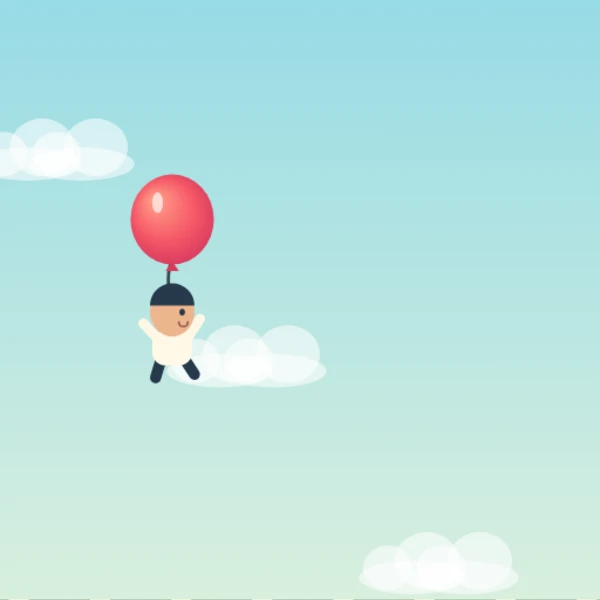
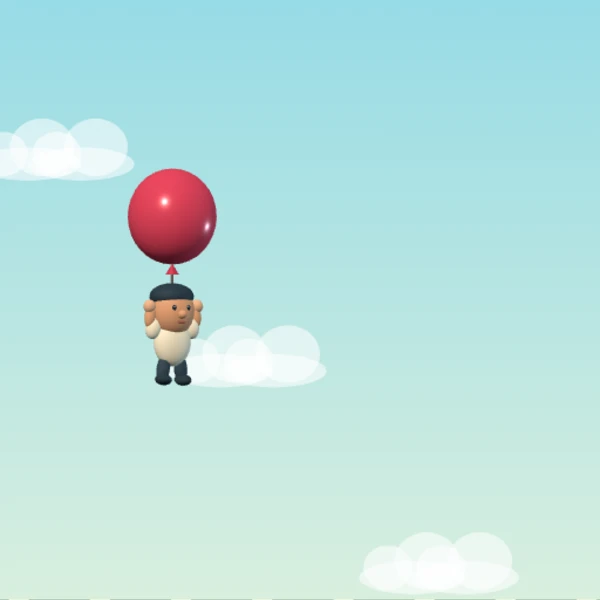
声の風船の反応を鋭くして人物と障害物を立体化

Changed region(s): [[0.21, 0.27, 0.36, 0.66]]

diff --git a/games/_koe-balloon/scene3d.js b/games/_koe-balloon/scene3d.js
@@ -1,0 +1,102 @@
+/* 人物・風船・柱を立体で描き、録画にも使う主画面へ合成する。
+   模型はすべて基本図形から自作。three.js は隣の既存配布物（MIT）を使う。 */
+(function(global){
+  'use strict';
+  function BalloonScene(){
+    var T=global.THREE,self=this;
+    this.renderer=new T.WebGLRenderer({alpha:true,antialias:true,preserveDrawingBuffer:true});
+    this.renderer.setClearColor(0,0);
+    this.renderer.outputColorSpace=T.SRGBColorSpace;
+    this.scene=new T.Scene();
+    this.camera=new T.OrthographicCamera(0,540,0,-960,1,3000);
+    this.camera.position.set(0,0,1000);
+    this.scene.add(new T.HemisphereLight(0xf3fcff,0x677579,1.5));
+    var sun=new T.DirectionalLight(0xfff0da,2.3);sun.position.set(-300,500,700);this.scene.add(sun);
+    var rim=new T.DirectionalLight(0xc1eaff,.8);rim.position.set(400,-100,-150);this.scene.add(rim);
+    this.ball=new T.SphereGeometry(1,24,16);
+    this.box=new T.BoxGeometry(1,1,1);
+    this.tube=new T.CylinderGeometry(1,1,1,12);
+    this.materials={};
+    this.mat=function(color,gloss){
+      var key=color+'-'+!!gloss;
+      return self.materials[key]||(self.materials[key]=new T.MeshStandardMaterial({color:color,roughness:gloss?.23:.62,metalness:gloss?.12:0}));
+    };
+    this.part=function(parent,geometry,color,x,y,z,sx,sy,sz,gloss){
+      var m=new T.Mesh(geometry,self.mat(color,gloss));
+      m.position.set(x,y,z);m.scale.set(sx,sy,sz);parent.add(m);return m;
+    };
+    this.person=new T.Group();this.scene.add(this.person);
+    var p=this.person;
+    this.part(p,this.ball,0xfff3d9,0,-8,0,18,22,12);
+    this.part(p,this.ball,0xe7a67d,0,20,1,20,23,18);
+    this.part(p,this.ball,0x253b4b,0,33,-1,20.5,12,18.5);
+    this.part(p,this.ball,0xe7a67d,0,17,19,4,4,5);
+    [-1,1].forEach(function(side){
+      self.part(p,self.ball,0xf0b792,side*19,20,0,4,6,4);
+      self.part(p,self.ball,0x162d3d,side*7,23,17,2,2.5,2);
+      self.part(p,self.ball,0xffffff,side*7-.5,24,18.5,.65,.7,.6);
+    });
+    this.part(p,this.ball,0xa86156,0,10,18,4,1.4,1);
+    this.arms=[];this.legs=[];
+    [-1,1].forEach(function(side){
+      var arm=new T.Group();arm.position.set(side*15,1,0);p.add(arm);
+      self.part(arm,self.ball,0xfff3d9,side*5,3,0,7,10,7);
+      self.part(arm,self.ball,0xe7a67d,side*10,13,1,5,10,5);
+      self.part(arm,self.ball,0xf0b792,side*12,22,2,5.5,6,5.5);
+      self.arms.push(arm);
+      var leg=new T.Group();leg.position.set(side*8,-24,0);p.add(leg);
+      self.part(leg,self.ball,0x314858,0,-8,0,6,13,6);
+      self.part(leg,self.ball,0x243846,0,-18,3,7,5,10);
+      self.legs.push(leg);
+    });
+    this.balloon=this.part(this.scene,this.ball,0xf04b68,155,-400,0,40,44,40,true);
+    this.knot=this.part(this.scene,new T.ConeGeometry(1,1,12),0xd83d59,155,-360,0,6,10,6,true);
+    this.rope=this.part(this.scene,this.tube,0x6b6060,155,-335,0,1.2,40,1.2);
+    this.gateModels=[];
+  }
+  BalloonScene.prototype.makeGate=function(){
+    var T=global.THREE,self=this,root=new T.Group();this.scene.add(root);
+    // 回転後の見える横幅を58にそろえ、当たり判定との横ずれを防ぐ。
+    var angle=-.42,extent=43*Math.cos(angle)+44*Math.abs(Math.sin(angle));
+    root.scale.x=58/extent;root.rotation.y=0;
+    function column(){
+      var g=new T.Group();g.rotation.y=angle;root.add(g);
+      var body=self.part(g,self.box,0x456873,0,0,0,43,1,44);
+      var cap=self.part(g,self.box,0xffc563,0,0,0,43,14,44,true);
+      var inset=self.part(g,self.box,0x658690,-11,0,22.2,5,1,.5);
+      return {root:g,body:body,cap:cap,inset:inset};
+    }
+    return {root:root,top:column(),bottom:column()};
+  };
+  BalloonScene.prototype.render=function(ctx,canvas,s){
+    var w=Math.min(canvas.width,810),h=Math.round(w*s.H/s.W);
+    if(this.renderer.domElement.width!==w||this.renderer.domElement.height!==h)this.renderer.setSize(w,h,false);
+    this.camera.right=s.W;this.camera.bottom=-s.H;this.camera.updateProjectionMatrix();
+    this.person.position.set(155,-s.y,0);
+    this.person.rotation.set(0,.5,Math.max(-.16,Math.min(.16,-s.vy/700)));
+    for(var i=0;i<2;i++){
+      this.legs[i].rotation.x=Math.sin(s.time*4+i*2)*.16;
+      this.legs[i].rotation.z=(i?1:-1)*(.15+Math.abs(s.vy)*.0008);
+      this.arms[i].rotation.z=(i?1:-1)*(.12+Math.sin(s.time*3)*.035);
+    }
+    var by=s.y-65-s.radius;
+    this.balloon.position.set(155,-by,0);this.balloon.scale.set(s.radius,s.radius*1.08,s.radius);
+    this.knot.position.set(155,-by-s.radius*1.08-4,0);
+    var ropeTop=-by-s.radius*1.08-8,ropeBottom=-s.y+40;
+    this.rope.position.set(155,(ropeTop+ropeBottom)/2,0);this.rope.scale.y=Math.max(1,ropeTop-ropeBottom);
+    while(this.gateModels.length<s.gates.length)this.gateModels.push(this.makeGate());
+    this.gateModels.forEach(function(m,i){
+      var g=s.gates[i];m.root.visible=!!g;if(!g)return;
+      m.root.position.x=g.x+29;
+      m.top.body.position.y=-(g.top-30)/2;m.top.body.scale.y=g.top+30;
+      m.top.cap.position.y=-g.top+7;
+      m.top.inset.position.y=-(g.top-30)/2;m.top.inset.scale.y=Math.max(1,g.top+2);
+      m.bottom.body.position.y=-(g.bottom+s.H+30)/2;m.bottom.body.scale.y=s.H+30-g.bottom;
+      m.bottom.cap.position.y=-g.bottom-7;
+      m.bottom.inset.position.y=-(g.bottom+s.H+44)/2;m.bottom.inset.scale.y=Math.max(1,s.H+16-g.bottom);
+    });
+    this.renderer.render(this.scene,this.camera);
+    ctx.drawImage(this.renderer.domElement,0,0,s.W,s.H);
+  };
+  global.BalloonScene=BalloonScene;
+})(window);

diff --git a/games/_koe-balloon/index.html b/games/_koe-balloon/index.html
@@ -26,6 +26,8 @@
   <button id="retry-button" type="button" aria-label="もう一度" hidden></button>
   <button id="share-button" type="button" aria-label="Xでシェア" hidden></button>
 </div></div>
+<script src="../random-bowling/vendor/three.min.js"></script>
+<script src="scene3d.js"></script>
 <script src="../start.js"></script>
 <script src="../view.js"></script>
 <script src="../audio.js"></script>
@@ -56,6 +58,11 @@
      タテ画面。横幅は540で固定、高さは開いた画面の形に合わせて伸び縮みする。
      どの端末でも「横540」の座標で描けばよい（解像度はここで吸収する）。 */
   var W = 540, H = 960;
+  var scene3d=null;
+  if(window.THREE && window.BalloonScene){
+    try { scene3d=new window.BalloonScene(); }
+    catch(e){console.warn('立体描画を起動できないため平面で表示します。',e);}
+  }
   function layout() {
     var view = window.zGameView.measure(wrap, W);
     H = view.gameHeight;
@@ -167,7 +174,7 @@
     if(document.hidden || micPending) return;
     T += dt;
     level=held?1:readVoice();
-    air=Math.max(0,Math.min(1,air+(level>0.06 ? 0.34+level*0.36 : -0.34)*dt));
+    air=Math.max(0,Math.min(1,air+(level>0.06 ? 1.2+level*0.6 : -1.05)*dt));
     vy+=(210-air*460-vy*2.5)*dt;
     py+=vy*dt;
     var speed=Math.min(145,100+distance*0.018);
@@ -180,13 +187,14 @@
     }
     gates.forEach(function(g){g.x-=speed*dt;});
     gates=gates.filter(function(g){return g.x>-70;});
-    var radius=21+air*33, by=py-65-radius;
-    function touches(cx,cy,r,g){
+    var radius=16+air*48, by=py-65-radius;
+    function touches(cx,cy,r,g,ry){
+      ry=ry||r;
       var nx=Math.max(g.x,Math.min(cx,g.x+58));
       var topY=Math.min(cy,g.top), bottomY=Math.max(cy,g.bottom);
-      return (cx-nx)*(cx-nx)+(cy-topY)*(cy-topY)<r*r || (cx-nx)*(cx-nx)+(cy-bottomY)*(cy-bottomY)<r*r;
+      return (cx-nx)*(cx-nx)/(r*r)+(cy-topY)*(cy-topY)/(ry*ry)<1 || (cx-nx)*(cx-nx)/(r*r)+(cy-bottomY)*(cy-bottomY)/(ry*ry)<1;
     }
-    if(by-radius<0 || py+42>H || gates.some(function(g){return touches(155,by,radius,g)||touches(155,py+5,27,g);})) {
+    if(by-radius*1.08<0 || py+48>H || gates.some(function(g){return touches(155,by,radius,g,radius*1.08)||touches(155,py+4,28,g,44);})) {
       state=S.RESULT; held=false; noiseHit(0.18,450,0.09); stopMic();
     }
   }
@@ -281,12 +289,15 @@
     }
     ctx.fillStyle='#b4cfb9';
     for(var i=0;i<12;i++){var x=((i*73-distance*3)%880+880)%880-120;ctx.fillRect(x,H-55-(i%3)*18,55,120);}
+    if(scene3d){
+      scene3d.render(ctx,canvas,{W:W,H:H,y:py,vy:vy,radius:16+air*48,time:T,gates:gates});
+    }else{
     gates.forEach(function(g){
       ctx.fillStyle='#3b5960';roundRect(g.x, -30,58,g.top+30,12);ctx.fill();roundRect(g.x,g.bottom,58,H-g.bottom+30,12);ctx.fill();
       ctx.fillStyle='#ffc86b';ctx.fillRect(g.x-5,g.top-16,68,16);ctx.fillRect(g.x-5,g.bottom,68,16);
       ctx.fillStyle='rgba(255,255,255,.16)';ctx.fillRect(g.x+8,0,8,g.top-16);ctx.fillRect(g.x+8,g.bottom+16,8,H);
     });
-    var radius=21+air*33, by=py-65-radius;
+    var radius=16+air*48, by=py-65-radius;
     ctx.strokeStyle='#3c4a51';ctx.lineWidth=3;ctx.beginPath();ctx.moveTo(155,by+radius);ctx.quadraticCurveTo(148+Math.sin(T*4)*5,py-55,155,py-17);ctx.stroke();
     ctx.save();ctx.translate(155,py);ctx.rotate(Math.max(-0.18,Math.min(0.18,vy/700)));
     ctx.strokeStyle='#263a4c';ctx.lineWidth=10;ctx.lineCap='round';
@@ -300,6 +311,7 @@
     ctx.fillStyle=balloon;ellipse(155,by,radius,radius*1.08);
     ctx.fillStyle='#d63c5c';ctx.beginPath();ctx.moveTo(155,by+radius);ctx.lineTo(149,by+radius+9);ctx.lineTo(161,by+radius+9);ctx.fill();
     ctx.fillStyle='rgba(255,255,255,.65)';ellipse(155-radius*.35,by-radius*.4,radius*.13,radius*.25);
+    }
     // マイクの状態と入力音量は、文字を増やさず絵で示す。
     ctx.save();ctx.translate(42,48);ctx.strokeStyle=micError?'#aa5262':'#365664';ctx.fillStyle=mic?'#365664':'#ffffff';
     roundRect(-6,-15,12,23,6);ctx.fill();ctx.lineWidth=3;ctx.beginPath();ctx.arc(0,1,12,0,Math.PI);ctx.moveTo(0,13);ctx.lineTo(0,20);ctx.moveTo(-7,20);ctx.lineTo(7,20);ctx.stroke();
@@ -359,7 +371,7 @@
      テスト（games/_tools）から中を見るためのもの。読むのと進めるだけ。
      消さなくてよい。遊びを飛ばせるものは足さないこと。 */
   window.__probe = {
-    now: function () { return { state: state, score: score, W: W, H: H, y:py, vy:vy, air:air, level:level, gates:gates.map(function(g){return {x:g.x,top:g.top,bottom:g.bottom};}), micPending:micPending, micError:micError }; },
+    now: function () { return { state: state, score: score, W: W, H: H, y:py, vy:vy, air:air, level:level, gates:gates.map(function(g){return {x:g.x,top:g.top,bottom:g.bottom};}), micPending:micPending, micError:micError, threeD:!!scene3d }; },
     step: function (n) { for (var i = 0; i < (n || 1); i++) { update(1 / 60); draw(); } },
     reset: function () { newRound(); }
   };

diff --git a/games/_tools/tests/koe-balloon-3d.js b/games/_tools/tests/koe-balloon-3d.js
@@ -1,0 +1,63 @@
+/* 実ブラウザで立体・投影と判定位置・録画元の合成画面を確認する。 */
+const fs=require('fs'),path=require('path'),http=require('http'),os=require('os'),cp=require('child_process');
+const root=path.resolve(__dirname,'../../..'),out=fs.mkdtempSync(path.join(os.tmpdir(),'koe-balloon-3d-'));
+let child,timer,finished=false;
+const hook=`window.__check={scene:function(){return scene3d;},setup:function(height,amount){
+  H=height;canvas.width=540;canvas.height=H;newRound();air=amount;py=H*.54;
+  gates=[{x:320,top:py-220,bottom:py+140}];draw();
+},intro:function(){state=S.INTRO;draw();},result:function(){state=S.RESULT;draw();},
+crash:function(){gates=[{x:140,top:py-65,bottom:H}];update(1/60);draw();}};`;
+const runner=`<script>window.__recordManual=true;(async()=>{try{
+function check(ok,msg){if(!ok)throw Error(msg);}
+const c=document.getElementById('c'),p=window.__probe,t=window.__check;
+check(t.scene(),'立体描画が起動しない');const scene=t.scene();
+for(const height of [780,1130,1700]){
+  t.setup(height,.5);const state=p.now();
+  check(state.threeD,'立体描画の状態');
+  check(scene.renderer.info.render.triangles>1000,'模型が描かれない');
+  check(scene.renderer.info.render.calls<100,'描画回数が多すぎる');
+  const projected=scene.person.position.clone().project(scene.camera);
+  check(Math.abs((projected.x+1)*270-155)<.01,'人物の横位置');
+  check(Math.abs((1-projected.y)*height/2-state.y)<.01,'人物の縦位置');
+  const box=new THREE.Box3().setFromObject(scene.gateModels[0].root);
+  check(Math.abs(box.min.x-320)<1&&Math.abs(box.max.x-378)<1,'柱の横幅と判定の不一致');
+  const pixel=c.getContext('2d').getImageData(330,30,1,1).data;
+  check(pixel[0]<150&&pixel[3]===255,'録画元の画面に柱が合成されていない');
+}
+t.setup(960,0);const small=scene.balloon.scale.x;t.setup(960,1);
+check(scene.balloon.scale.x/small===4,'風船の大小が模型に反映されない');
+t.setup(960,.5);
+async function save(name){await fetch('/__image/'+name,{method:'POST',body:await new Promise(r=>c.toBlob(r))});}
+await save('play.png');t.intro();await save('start.png');t.result();await save('result.png');
+check(!document.getElementById('retry-button').hidden&&!document.getElementById('share-button').hidden,'結果の操作ボタン');
+t.setup(960,.5);t.crash();check(p.now().state==='result','柱への衝突');
+await fetch('/__done',{method:'POST',body:'3種類の縦横比・立体の投影位置・4倍の風船・柱への衝突・録画画面の合成を確認'});
+}catch(e){await fetch('/__fail',{method:'POST',body:e.stack});}})();</script>`;
+const server=http.createServer((req,res)=>{
+  const u=req.url.split('?')[0];
+  if(u.startsWith('/__')){
+    const parts=[];req.on('data',b=>parts.push(b));req.on('end',()=>{
+      const b=Buffer.concat(parts);res.end('ok');
+      if(u.startsWith('/__image/'))fs.writeFileSync(path.join(out,path.basename(u)),b);
+      else finish(u==='/__done'?0:1,b.toString());
+    });return;
+  }
+  const file=path.resolve(root,'.'+u);
+  if(!file.startsWith(root+path.sep)){res.writeHead(403);res.end();return;}
+  try{
+    let b=fs.readFileSync(file);
+    res.setHeader('Content-Type',file.endsWith('.html')?'text/html; charset=utf-8':file.endsWith('.js')?'text/javascript':'image/webp');
+    if(file.endsWith('.html'))b=b.toString().replace('/* ============ ループ ============ */',hook+'\n/* ============ ループ ============ */').replace('</body>',runner+'</body>');
+    res.end(b);
+  }catch(e){res.writeHead(404);res.end();}
+});
+function finish(code,msg){
+  if(finished)return;finished=true;clearTimeout(timer);if(child)child.kill();server.close();
+  console.log(msg);console.log(out);process.exitCode=code;
+}
+server.listen(0,'127.0.0.1',()=>{
+  const exe=['C:/Program Files/Google/Chrome/Application/chrome.exe','C:/Program Files (x86)/Microsoft/Edge/Application/msedge.exe'].find(fs.existsSync);
+  if(!exe)return finish(1,'ブラウザが見つからない');
+  child=cp.spawn(exe,['--headless=new','--no-first-run','--no-default-browser-check','--enable-unsafe-swiftshader','--window-size=430,930','--user-data-dir='+path.join(out,'profile'),'http://127.0.0.1:'+server.address().port+'/games/_koe-balloon/index.html?recorder-cli=1'],{stdio:'ignore',windowsHide:true});
+  child.on('error',e=>finish(1,e.message));timer=setTimeout(()=>finish(1,'時間切れ'),30000);
+});

diff --git a/games/_tools/tests/koe-balloon.js b/games/_tools/tests/koe-balloon.js
@@ -2,8 +2,8 @@ const assert=require('assert');const load=require('../harness');
 const file='games/_koe-balloon/index.html';
 let g=load(file);g.step(120);assert.equal(g.probe.now().state,'intro');
 g.press(' ');assert.equal(g.probe.now().state,'play');assert.equal(g.probe.now().air,.5);
-g.key(' ');g.step(60);assert(g.probe.now().air>.95);assert(g.probe.now().vy<0);
-g.key(' ',true);g.step(135);assert(g.probe.now().air<.5);assert(g.probe.now().vy>0);
+g.key(' ');g.step(18);assert(g.probe.now().air>.95);assert(g.probe.now().vy<0);
+g.key(' ',true);g.step(58);assert.equal(g.probe.now().air,0,'約1秒で最小までしぼむ');g.step(30);assert(g.probe.now().vy>0);
 g.probe.reset();assert(g.until(()=>g.probe.now().state==='result',1200),'無操作で落下して終わる');
 g.press(' ');assert.equal(g.probe.now().state,'play');
 for(const shape of [[390,844],[700,700],[500,1600]]){
@@ -11,14 +11,13 @@ for(const shape of [[390,844],[700,700],[500,1600]]){
   let hold=false;
   for(let n=0;n<3600;n++){
     let p=g.probe.now();assert.equal(p.state,'play','経路を通過できる '+shape+' '+n);
-    let gate=p.gates.find(x=>x.x+58>120);
-    let target=gate?(gate.top+gate.bottom)/2+48:p.H*.52;
+    let gate=p.gates.find(x=>x.x+58>90);
+    let target=gate?(gate.top+gate.bottom)/2+65:p.H*.52;
     let desired=Math.max(.15,Math.min(.8,.456+(p.y-target)*.009+p.vy*.012));
-    if(!hold && p.air<desired-.025){g.key(' ');hold=true;}
-    if(hold && p.air>desired+.025){g.key(' ',true);hold=false;}
+    if(n%6===0 && !hold && p.air<desired-.1){g.key(' ');hold=true;}
+    if(n%6===0 && hold && p.air>desired+.1){g.key(' ',true);hold=false;}
     g.step(1);
   }
   assert(g.probe.now().score>500);console.log('60秒の通過確認',shape.join('×'),g.probe.now().score);
 }
 console.log('開始・膨張・収縮・落下・再挑戦を確認');
-
